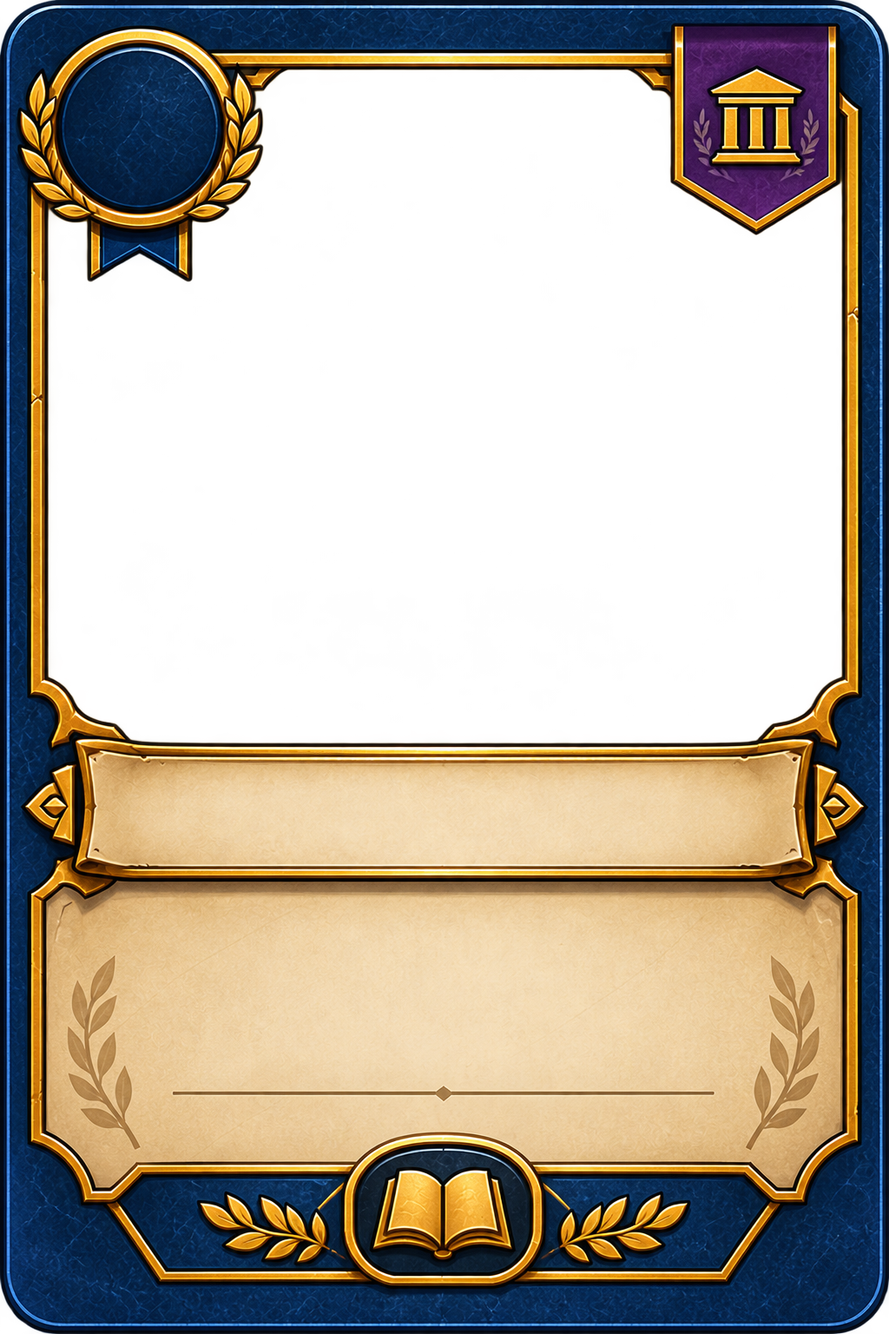
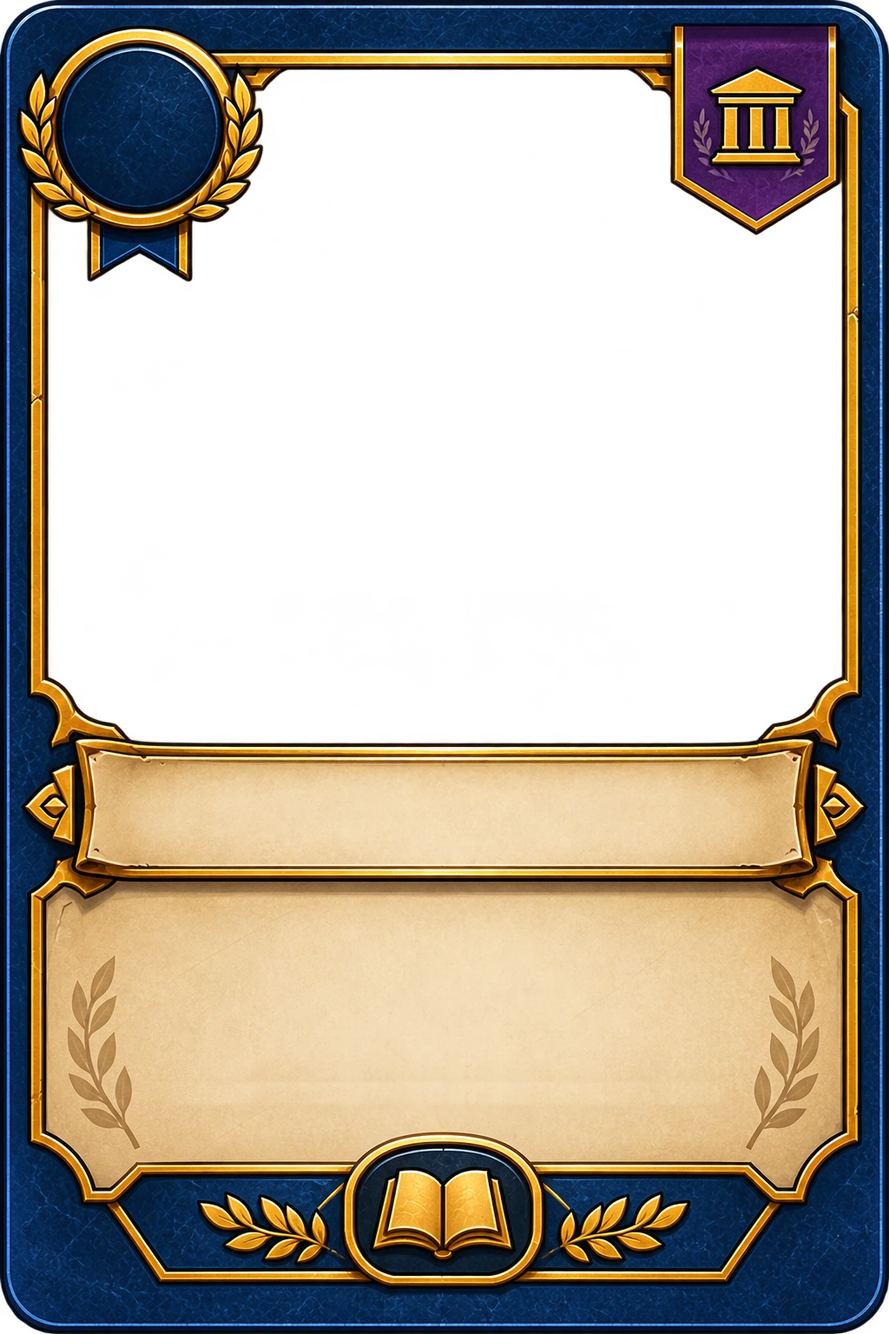
feat: aplicar mejoras del documento de cambios
- Título "Tesis · El juego de mesa investigador" y nuevo subtítulo de inicio.
- Misiones y personalización ocultas tras FEATURES (features.js) para este curso.
- Revisión Sistemática cuesta 2 monedas y Patente 2 monedas.
- Ventana de cada artículo con su explicación didáctica.
- Rangos renombrados (Graduado ... Catedrático) con insignias redibujadas.
- Sin aviso de mano vacía; botón final "Volver al menú".
- La última ronda pasa directamente al resultado, sin pantalla de carga.
- Los siete personajes en una sola fila y sin la línea del marco.

Claude-Session: https://claude.ai/code/session_01J97HrFpyeARFxQw65LrecW

diff --git a/src/main/resources/static/js/app.js b/src/main/resources/static/js/app.js
@@ -9,7 +9,7 @@ import {initAccountPanel, progressText} from './account-panel.js';
 import {homeCommunity} from './home-community.js';
 import {img, esc} from './dom.js';
 import {board} from './board.js';
-import {ideaCard, ideaCardContents, roleCard} from './cards.js';
+import {ideaCard, ideaCardContents, roleCard, articleDescription} from './cards.js';
 import {studies, articleChoices} from './players.js';
 import {dialog, closeDialog, phaseDialog, reconcileDialog, informationalDialogOpen} from './dialogs.js';
 import {endTurnWarning, preview, ideaUnavailableReason, highlightTargets, clearTargets} from './decisions.js';
@@ -22,7 +22,7 @@ let state = null, room = null, busy = false, selectedRole = null, pendingAction 
 let timer, screen = 'home', generation = 0;
 const app = document.getElementById('app');
 const connection = document.createElement('div');
-const homeMessage = 'Reúne a tu academia. Cada persona juega desde su dispositivo, con su mano privada y una mesa compartida.';
+const homeMessage = 'Reúne a tu grupo de investigación para jugar desde dispositivos separados en una sala privada.';
 const academyIntro = (community=false) => `${community?'':`<div class="academy-brand">${img('Logo/logo_tesis.webp','home-logo','Tesis')}<span>EL JUEGO DE LA INVESTIGACIÓN</span></div>`}<span class="eyebrow"><i aria-hidden="true"></i> La diferencia está en la ciencia</span>
     <h1>Construye tu<br><em>legado científico.</em></h1><p>${homeMessage}</p>
     <div class="home-features"><span><strong>3–5</strong> jugadores</span><span><strong>Una</strong> mesa compartida</span><span><strong>Tu</strong> mano privada</span></div>
@@ -216,7 +216,7 @@ function help() {
     </div></section>
     <section class="rules-section" aria-labelledby="rules-final"><h2 id="rules-final" tabindex="-1"><span>06</span> El final y la victoria</h2><p>Cuando alguien alcanza <strong>3 estudios publicados</strong>, continuáis los turnos pendientes de esa ronda. Al acabarla se compara el prestigio total y termina la partida.</p><div class="rules-example"><h3>Tres publicaciones activan el final; el prestigio decide</h3><p>Ana publica su tercer estudio y tiene 5 de prestigio. Bruno aún juega en esa ronda y termina con 7 de prestigio y 2 publicaciones. <strong>Gana Bruno.</strong></p></div><div class="rules-note"><strong>Desempate.</strong> Si varias personas terminan con el mismo prestigio máximo, gana quien tenga <strong>más monedas</strong>. Si también empatan en monedas, gana quien tenga <strong>más cartas en la mano</strong>. Solo si el empate continúa se comparte la victoria.</div><p>Los estudios en desarrollo no dan prestigio. Sí cuentan las mejoras del Estadístico y las Patentes publicadas; una Patente cuenta como una publicación para activar el final.</p></section>
     <section class="rules-section" aria-labelledby="rules-consulta"><h2 id="rules-consulta" tabindex="-1">Consulta rápida</h2><details class="rules-reference"><summary>Cartas de idea: costes, trabajo y prestigio</summary><div><p>El mazo es <strong>inagotable y con reposición</strong>: cada idea robada sigue las probabilidades de la tabla, también en el reparto inicial. Pueden repetirse cartas.</p><div class="rules-table-scroll" role="region" aria-label="Catálogo de ideas" tabindex="0"><table><caption>Valores y probabilidad de cada idea</caption><thead><tr><th scope="col">Idea</th><th scope="col">Monedas</th><th scope="col">Trabajo</th><th scope="col">Prestigio</th><th scope="col">Probabilidad</th></tr></thead><tbody>${[
-      ['Artículo Ecológico',2,1,1,'13%'],['Artículo Transversal',3,1,2,'13%'],['Casos y Controles',3,2,3,'13%'],['Cohortes',4,3,5,'13%'],['Revisión Sistemática',3,5,6,'13%'],['Ensayo Clínico Aleatorizado',5,4,7,'13%'],['Ensayo Comunitario',9,4,9,'13%'],['Patente',4,4,5,'9%']
+      ['Artículo Ecológico',2,1,1,'13%'],['Artículo Transversal',3,1,2,'13%'],['Casos y Controles',3,2,3,'13%'],['Cohortes',4,3,5,'13%'],['Revisión Sistemática',2,5,6,'13%'],['Ensayo Clínico Aleatorizado',5,4,7,'13%'],['Ensayo Comunitario',9,4,9,'13%'],['Patente',2,4,5,'9%']
     ].map(([name,...values])=>`<tr><th scope="row">${name}</th>${values.map(value=>`<td>${value}</td>`).join('')}</tr>`).join('')}</tbody></table></div><p><strong>Patente · Legendaria:</strong> una vez publicada, genera <strong>2 monedas al inicio de cada turno tuyo</strong>. Varias Patentes acumulan sus ingresos. Un turno vetado no genera ingresos.</p></div></details><details class="rules-reference"><summary>Jugar desde varios dispositivos y volver a la sala</summary><div><p>Comparte el código para que cada persona entre desde su navegador. Al recargar recuperas tu identidad en la misma pestaña. Mantén esa pestaña para volver a tu partida: abrir otra no recupera tu identidad por nombre.</p><p>Las salas caducan tras 24 horas sin actividad válida y desaparecen si se reinicia el servidor.</p></div></details></section>
     <div class="rules-guide-footer"><button type="button" class="plain-button" data-command="rules-section" data-section="preparacion">Volver a la preparación ↑</button><button type="button" class="gold-button" data-command="close">Listo para jugar</button></div>
     </article>`, {wide:true, kind:'info', subtitle:'Una guía para empezar y consultar durante la partida.'});
@@ -250,6 +250,7 @@ function inspect(c, study = null, player = null) {
   const canWork = study && player === state.yo && state.acciones.find(a => a.id === 'TRABAJAR')?.disponible
     && state.acciones.find(a => a.id === 'TRABAJAR')?.opciones.some(o => o.indice === study.indice);
   dialog(c.nombre, `<div class="card-detail">${ideaCard(c,{command:'noop'})}<div><span class="eyebrow">${study ? study.publicado ? 'ARTÍCULO PUBLICADO' : 'ESTUDIO EN DESARROLLO' : 'CARTA DE IDEA'}</span><h2>${esc(c.nombre)}</h2>
+    ${articleDescription(c.nombre) ? `<p class="article-description">${esc(articleDescription(c.nombre))}</p>` : ''}
     <dl><div><dt>Coste de inicio</dt><dd>${c.coste} monedas</dd></div><div><dt>Trabajo requerido</dt><dd>${c.trabajo} puntos</dd></div><div><dt>Prestigio</dt><dd>${c.prestigio}${study?.prestigioExtra ? ` + ${study.prestigioExtra}` : ''}</dd></div></dl>
     ${c.ingresoPorTurno ? `<p>Legendaria. Mientras esté publicada, recibes ${c.ingresoPorTurno} monedas al iniciar tu turno.</p>` : ''}
     ${study ? `<p>Progreso: ${study.trabajo} / ${c.trabajo}</p>` : ''}

diff --git a/src/main/resources/static/js/account-panel.js b/src/main/resources/static/js/account-panel.js
@@ -1,4 +1,5 @@
 import {accounts} from './auth.js';
+import {FEATURES} from './features.js';
 import {esc} from './dom.js';
 import {RANKS, progression, badge} from './profile-ranks.js';
 import {academyTabs,mountCommunity} from './community-panel.js';
@@ -31,7 +32,7 @@ export function profileView(profile) {
   const p=progression(profile),played=Math.max(0,Number(profile.partidasTerminadas)||0),wins=Math.max(0,Number(profile.victorias)||0);
   return `<div class="profile-shell tier-${p.rank.id}">${closeButton()}
     <h2 id="account-title" class="sr-only">Mi perfil</h2>
-    <div class="profile-main"><nav class="customization-view-tabs" aria-label="Vista del perfil"><span aria-current="page">Resumen</span><button type="button" data-customize>✒ Personalización</button></nav><section class="profile-identity" aria-label="Tu rango actual">${frameCorners()}<span class="researcher-card-label">CARNET DE INVESTIGADOR</span><div class="profile-emblem">${emblemLaurels()}${badge(p.rank.id)}<span class="emblem-level">NIVEL <b>${esc(p.level)}</b></span></div><span class="rank-kicker">${esc(p.rank.title)}</span><h3>${esc(profile.nombre)}</h3><span class="identity-divider" aria-hidden="true">◇</span><span class="rank-name">${esc(p.rank.name)}</span><p class="rank-description">${esc(p.rank.description)}</p><span class="researcher-card-signature">TESIS · MIEMBRO DE LA ACADEMIA</span></section>
+    <div class="profile-main">${FEATURES.personalizacion?'<nav class="customization-view-tabs" aria-label="Vista del perfil"><span aria-current="page">Resumen</span><button type="button" data-customize>✒ Personalización</button></nav>':''}<section class="profile-identity" aria-label="Tu rango actual">${frameCorners()}<span class="researcher-card-label">CARNET DE INVESTIGADOR</span><div class="profile-emblem">${emblemLaurels()}${badge(p.rank.id)}<span class="emblem-level">NIVEL <b>${esc(p.level)}</b></span></div><span class="rank-kicker">${esc(p.rank.title)}</span><h3>${esc(profile.nombre)}</h3><span class="identity-divider" aria-hidden="true">◇</span><span class="rank-name">${esc(p.rank.name)}</span><p class="rank-description">${esc(p.rank.description)}</p><span class="researcher-card-signature">TESIS · MIEMBRO DE LA ACADEMIA</span></section>
     <section class="profile-record" aria-label="Progresión y estadísticas">${frameCorners()}<div class="profile-progress"><div class="profile-record-heading"><div class="profile-section-label">${academicSprig()}<span>PROGRESIÓN DE NIVEL</span></div></div><div class="xp-headline"><strong>${esc(p.inLevel)} <small>/ 500 XP</small></strong><div class="xp-next"><span>NIVEL ${esc(p.level)} → ${esc(p.level+1)}</span><span>${esc(p.toNextLevel)} XP para el siguiente nivel</span></div></div><div class="xp-track" role="progressbar" aria-label="Progreso al siguiente nivel" aria-valuemin="0" aria-valuemax="500" aria-valuenow="${p.inLevel}" aria-valuetext="${p.inLevel} de 500 XP"><span style="width:${p.percent}%"></span></div><p class="xp-total">${esc(p.xp)} XP acumulada <span>·</span> Tu legado sigue creciendo</p></div>
     <div class="profile-stat-grid"><div>${frameCorners()}<span class="stat-glyph" aria-hidden="true">▤</span><strong>${esc(played)}</strong><span>Partidas terminadas</span></div><div>${frameCorners()}<span class="stat-glyph" aria-hidden="true">♛</span><strong>${esc(wins)}</strong><span>Victorias</span></div><div>${frameCorners()}<span class="stat-glyph" aria-hidden="true">✦</span><strong>${played?Math.round(wins/played*100):0}<small>%</small></strong><span>Porcentaje de victorias</span></div></div>
     <div class="next-rank-card">${frameCorners()}${p.nextRank?`${badge(p.nextRank.id,{small:true})}<div><span>EL SIGUIENTE HORIZONTE</span><strong>${esc(p.nextRank.name)}</strong><p>Nivel ${p.nextRank.start} · ${Math.max(0,(p.nextRank.start-1)*500-p.xp)} XP por recorrer</p></div>`:`${badge('eterno',{small:true})}<div><span>EL MAYOR HONOR DE LA ACADEMIA</span><strong>Un legado eterno</strong><p>Has alcanzado el último rango. Tus niveles continúan.</p></div>`}</div></section></div>
@@ -51,7 +52,7 @@ export function initAccountPanel() {
   const panel=document.getElementById('account-panel'),opener=document.getElementById('account-open');
   let mode='login',working=false,loginIdentityPending=false,lastView='',restoring=true,connectionFailed=false,returnFocus=null,returnScroll=0,operation=0;
   let academyPage='profile',community=null,lastIdentity=accounts.identity();
-  const routes={'#perfil':'profile','#amigos':'friends','#ranking':'ranking','#misiones':'missions','#personalizacion':'customization'};
+  const routes={'#perfil':'profile','#amigos':'friends','#ranking':'ranking',...(FEATURES.misiones?{'#misiones':'missions'}:{}),...(FEATURES.personalizacion?{'#personalizacion':'customization'}:{})};
   const hashes=Object.fromEntries(Object.entries(routes).map(([hash,page])=>[page,hash]));
   const labels={profile:'Mi perfil',friends:'Amigos',ranking:'Ranking global',missions:'Misiones',customization:'Personalización'};
   const app=document.getElementById('app');
@@ -59,7 +60,7 @@ export function initAccountPanel() {
     operation++;working=false;panel.removeAttribute('aria-busy');
     community?.destroy();community=null;lastView='';
     panel.hidden=true;app.inert=false;app.hidden=false;document.body.classList.remove('account-page-active');
-    document.title='Tesis · La mesa del conocimiento';
+    document.title='Tesis · El juego de mesa investigador';
     window.scrollTo(0,returnScroll);
     (returnFocus?.isConnected&&returnFocus!==document.body?returnFocus:opener).focus({preventScroll:true});
     document.dispatchEvent(new Event('tesis:account-return'));

diff --git a/src/main/resources/static/js/profile-ranks.js b/src/main/resources/static/js/profile-ranks.js
@@ -1,12 +1,12 @@
 // Distinciones visuales del perfil. No intervienen en las reglas ni conceden XP.
 export const RANKS = Object.freeze([
-  {id:'madera', name:'Madera', start:1, title:'Aprendiz de la academia', color:'#bf9264', glow:'#8e6134', description:'Toda gran idea empieza con una primera página.'},
-  {id:'bronce', name:'Bronce', start:5, title:'Investigador emergente', color:'#dc9b65', glow:'#b86335', description:'Tu curiosidad comienza a dejar huella.'},
-  {id:'plata', name:'Plata', start:10, title:'Erudito de la academia', color:'#d5e3f2', glow:'#89b0ce', description:'El conocimiento encuentra una voz propia.'},
-  {id:'oro', name:'Oro', start:20, title:'Maestro del conocimiento', color:'#f4ce73', glow:'#dba339', description:'Tus ideas brillan en los salones de la academia.'},
-  {id:'platino', name:'Platino', start:35, title:'Eminencia científica', color:'#a9eee5', glow:'#56cabe', description:'Una trayectoria que inspira nuevas generaciones.'},
-  {id:'diamante', name:'Diamante', start:50, title:'Guardián del saber', color:'#a9dfff', glow:'#609ffc', description:'El tiempo convierte tu legado en algo excepcional.'},
-  {id:'eterno', name:'Eterno', start:75, title:'Leyenda de la academia', color:'#f3cd78', glow:'#b377ff', description:'Un legado escrito en oro. Un conocimiento sin límites.'},
+  {id:'madera', file:'Graduado', name:'Graduado', start:1, title:'Aprendiz de la academia', color:'#bf9264', glow:'#8e6134', description:'Toda gran idea empieza con una primera página.'},
+  {id:'bronce', file:'Master', name:'Máster', start:5, title:'Investigador emergente', color:'#dc9b65', glow:'#b86335', description:'Tu curiosidad comienza a dejar huella.'},
+  {id:'plata', file:'Predoctoral', name:'Predoctoral', start:10, title:'Erudito de la academia', color:'#d5e3f2', glow:'#89b0ce', description:'El conocimiento encuentra una voz propia.'},
+  {id:'oro', file:'Postdoctoral', name:'Postdoctoral', start:20, title:'Maestro del conocimiento', color:'#f4ce73', glow:'#dba339', description:'Tus ideas brillan en los salones de la academia.'},
+  {id:'platino', file:'Ayudante-doctor', name:'Ayudante doctor', start:35, title:'Eminencia científica', color:'#a9eee5', glow:'#56cabe', description:'Una trayectoria que inspira nuevas generaciones.'},
+  {id:'diamante', file:'Investigador-principal', name:'Investigador principal', start:50, title:'Guardián del saber', color:'#a9dfff', glow:'#609ffc', description:'El tiempo convierte tu legado en algo excepcional.'},
+  {id:'eterno', file:'Catedratico', name:'Catedrático', start:75, title:'Leyenda de la academia', color:'#f3cd78', glow:'#b377ff', description:'Un legado escrito en oro. Un conocimiento sin límites.'},
 ].map(rank=>Object.freeze(rank)));
 
 export function progression(profile) {
@@ -26,5 +26,5 @@ export function progression(profile) {
 // El catálogo limita las rutas de imágenes y nunca usa el id recibido como ruta.
 export function badge(rankId,{small=false}={}) {
   const rank=RANKS.find(rank=>rank.id===rankId)||RANKS[0];
-  return `<span class="profile-badge tier-${rank.id}${small?' profile-badge-small':''}" role="img" aria-label="Distinción ${rank.name}"><img src="/assets/Tesis-assets/Rango-Niveles/${rank.name}.png" alt="" width="1254" height="1254" decoding="async"></span>`;
+  return `<span class="profile-badge tier-${rank.id}${small?' profile-badge-small':''}" role="img" aria-label="Distinción ${rank.name}"><img src="/assets/Tesis-assets/Rango-Niveles/${rank.file}.png" alt="" width="1254" height="1254" decoding="async"></span>`;
 }

diff --git a/src/main/resources/static/js/community-panel.js b/src/main/resources/static/js/community-panel.js
@@ -1,4 +1,5 @@
 import {esc} from './dom.js';
+import {FEATURES} from './features.js';
 import {badge,progression} from './profile-ranks.js';
 import {createPublicProfile} from './public-profile.js';
 import {rankingView} from './ranking-panel.js';
@@ -15,7 +16,7 @@ const academyTabIcons={
   ranking:'<path d="M8 3h8v8a4 4 0 0 1-8 0zM10 16h4v5h-4zM7 21h10v2H7z"/><path d="M8 5H3v3a5 5 0 0 0 5 5m8-8h5v3a5 5 0 0 1-5 5" fill="none" stroke="currentColor" stroke-width="2"/>',
   missions:'<path d="M2 4q5-2 10 1 5-3 10-1v16q-5-2-10 1-5-3-10-1zM12 5v16M5 8h4M5 11h4M5 14h4M15 8h4M15 11h4M15 14h4" fill="none" stroke="currentColor" stroke-width="1.5"/>'
 };
-export const academyTabs=active=>`<nav class="community-tabs" aria-label="Secciones de tu academia">${[['profile','Mi perfil'],['friends','Amigos'],['ranking','Ranking global'],['missions','Misiones']].map(([id,title])=>`<button type="button" data-academy-page="${id}" ${active===id?'aria-current="page"':''}><svg class="academy-tab-icon" viewBox="0 0 24 24" aria-hidden="true" focusable="false">${academyTabIcons[id]}</svg><span>${title}</span></button>`).join('')}</nav>`;
+export const academyTabs=active=>`<nav class="community-tabs" aria-label="Secciones de tu academia">${[['profile','Mi perfil'],['friends','Amigos'],['ranking','Ranking global'],...(FEATURES.misiones?[['missions','Misiones']]:[])].map(([id,title])=>`<button type="button" data-academy-page="${id}" ${active===id?'aria-current="page"':''}><svg class="academy-tab-icon" viewBox="0 0 24 24" aria-hidden="true" focusable="false">${academyTabIcons[id]}</svg><span>${title}</span></button>`).join('')}</nav>`;
 const icons={friends:academyTabIcons.friends,received:'<path d="M2 5h20v14H2z"/><path d="m2 5 10 8L22 5" fill="none" stroke="#132331" stroke-width="1.8"/>',sent:'<path d="m2 10 20-8-5 20-5-8z"/><path d="m12 14 10-12" fill="none" stroke="#132331" stroke-width="1.5"/>',link:'<path d="m9 15 6-6M8 11l-2 2a4 4 0 0 0 6 6l3-3M16 13l2-2a4 4 0 0 0-6-6L9 8" fill="none" stroke="currentColor" stroke-width="2.2"/>',add:'<circle cx="9" cy="7" r="4"/><path d="M1 22v-5a8 8 0 0 1 16 0v5M20 3v8M16 7h8" stroke="currentColor" stroke-width="2"/>',copy:'<path d="M8 3h12v16H8zM4 7v16h12" fill="none" stroke="currentColor" stroke-width="1.8"/>',refresh:'<path d="M21 9a9 9 0 0 0-16-3L2 9m0-6v6h6M3 15a9 9 0 0 0 16 3l3-3m0 6v-6h-6" fill="none" stroke="currentColor" stroke-width="1.8"/>',search:'<circle cx="10" cy="10" r="7" fill="none" stroke="currentColor" stroke-width="1.8"/><path d="m15 15 7 7" stroke="currentColor" stroke-width="1.8"/>',share:'<circle cx="5" cy="12" r="3"/><circle cx="19" cy="5" r="3"/><circle cx="19" cy="19" r="3"/><path d="m5 12 14-7M5 12l14 7" stroke="currentColor" stroke-width="2"/>'};
 const icon=id=>`<svg class="friend-icon" viewBox="0 0 24 24" aria-hidden="true" focusable="false">${icons[id]||icons.friends}</svg>`;
 const corners=()=>'<span class="friend-frame-corners" aria-hidden="true"><i></i><i></i><i></i><i></i></span>';

diff --git a/src/main/resources/static/js/cards.js b/src/main/resources/static/js/cards.js
@@ -1,5 +1,18 @@
 import {img, esc} from './dom.js';
 
+// Texto didáctico que acompaña a cada tipo de artículo en su ventana de detalle.
+const ARTICLE_DESCRIPTIONS = {
+  'Artículo Ecológico': 'Son estudios observacionales que utilizan datos agregados para estudiar una población. Al relacionar exclusivamente variables a nivel grupal, sus conclusiones quedan expuestas a la falacia ecológica.',
+  'Artículo Transversal': 'Son estudios observacionales que recopilan datos de una muestra en un único punto temporal. Pueden establecer prevalencias y correlaciones entre variables, pero son incapaces de establecer relaciones de causalidad debido a que sufren de ambigüedad temporal.',
+  'Casos y Controles': 'Son estudios observacionales retrospectivos que evalúan las exposiciones pasadas de una muestra que presenta una determinada enfermedad o condición (casos) frente a un grupo que ejerce de control al no presentarla.',
+  'Cohortes': 'Son estudios observacionales que consisten en seguir a una muestra a lo largo del tiempo, dividiéndola en grupos en función de una determinada exposición para observar la aparición o modificación de una variable.',
+  'Revisión Sistemática': 'Son estudios de revisión donde la unidad de análisis son estudios primarios, a partir de los cuales se pretende contestar a una pregunta de investigación claramente formulada mediante un proceso sistemático, explícito y reproducible.',
+  'Ensayo Clínico Aleatorizado': 'Son estudios experimentales que se caracterizan porque la asignación de los sujetos a los grupos de estudio (experimental y control) se realiza mediante aleatorización. Se consideran el Gold Standard de la investigación primaria para establecer relaciones de causalidad.',
+  'Ensayo Comunitario': 'Son estudios experimentales donde la unidad de asignación de la intervención no es el individuo, sino una comunidad completa. El investigador selecciona comunidades enteras y asigna al azar cuál recibe la intervención y cuál sirve de control, recogiendo datos agregados.',
+  'Patente': 'Documento legal que describe una invención original. No es un artículo científico, sino un título de propiedad industrial que concede el derecho exclusivo de explotación comercial temporal a cambio de hacer públicos sus detalles técnicos.'
+};
+export const articleDescription = name => ARTICLE_DESCRIPTIONS[name] || '';
+
 export function ideaCard(c, {command = 'inspect', disabled = false, selected = false} = {}) {
   return `<button class="game-card idea-card ${selected ? 'selected' : ''}" data-command="${command}" data-index="${c.indice}" ${disabled ? 'disabled' : ''}
     aria-label="${esc(c.nombre)}. Coste ${c.coste}, trabajo ${c.trabajo}, prestigio ${c.prestigio}" data-tip="${esc(c.nombre)} · ${c.coste} monedas · ${c.trabajo} trabajo · ${c.prestigio} prestigio">

diff --git a/src/main/resources/static/js/dialogs.js b/src/main/resources/static/js/dialogs.js
@@ -35,7 +35,7 @@ export function phaseDialog(state) {
   } else if (state.fase === 'FIN_RONDA') {
     dialog(`La ronda ${state.ronda} ha terminado`, `<div class="round-summary"><span class="round-summary-kicker">BALANCE DE LA ACADEMIA</span>${ranking(state)}<p>${state.ultimaRonda ? 'Se ha alcanzado la tercera publicación. Es hora de reconocer el legado de cada academia.' : 'Los personajes regresan al mazo. Una nueva ronda trae nuevas posibilidades.'}</p><div class="round-transition" role="status"><span>${state.ultimaRonda ? 'Preparando el resultado final' : 'Preparando la siguiente ronda'}</span><span class="round-transition-track" aria-hidden="true"><span></span></span></div></div>`, {locked:true,kind:'round'});
   } else if (state.fase === 'FIN_PARTIDA') {
-    dialog('TESIS COMPLETADA', `<div class="final-result">${img('recursos/prestigio.webp','victory-medal')}<h2>${state.ganadores.map(esc).join(' · ')}</h2><p>${victoryReason(state)}</p>${state.jugadores.filter(p=>state.ganadores.includes(p.nombre)).map(p=>`<div class="victory-publications" aria-label="Publicaciones de ${esc(p.nombre)}">${p.estudios.filter(e=>e.publicado).map(e=>img(e.carta.arte,'',e.carta.nombre)).join('')}</div>`).join('')}${ranking(state)}<div class="dialog-buttons"><button class="gold-button" data-command="home">Nueva partida</button><button class="plain-button" data-command="close">Explorar la mesa</button></div></div>`, {locked:false, subtitle:`Partida completada en ${state.ronda} rondas`});
+    dialog('TESIS COMPLETADA', `<div class="final-result">${img('recursos/prestigio.webp','victory-medal')}<h2>${state.ganadores.map(esc).join(' · ')}</h2><p>${victoryReason(state)}</p>${state.jugadores.filter(p=>state.ganadores.includes(p.nombre)).map(p=>`<div class="victory-publications" aria-label="Publicaciones de ${esc(p.nombre)}">${p.estudios.filter(e=>e.publicado).map(e=>img(e.carta.arte,'',e.carta.nombre)).join('')}</div>`).join('')}${ranking(state)}<div class="dialog-buttons"><button class="gold-button" data-command="home">Volver al menú</button><button class="plain-button" data-command="close">Explorar la mesa</button></div></div>`, {locked:false, subtitle:`Partida completada en ${state.ronda} rondas`});
   } else closeDialog();
 }
 // El servidor decide quién gana; aquí solo se explica el criterio que resolvió el resultado.

diff --git a/src/main/resources/static/js/home-community.js b/src/main/resources/static/js/home-community.js
@@ -5,13 +5,15 @@ const icons = {
   profile: '<circle cx="12" cy="8" r="4"/><path d="M4 21v-2a8 8 0 0 1 16 0v2"/>',
 };
 
+import {FEATURES} from './features.js';
+
 /** Static entry points. Account navigation owns authentication and destination state. */
 export function homeCommunity() {
   const entries = [
     ['perfil', 'profile', 'Mi perfil', 'Identidad y progreso'],
     ['amigos', 'friends', 'Amigos', 'Reúne a tu academia'],
     ['ranking', 'ranking', 'Ranking global', 'Tu puesto en la academia'],
-    ['misiones', 'missions', 'Misiones', 'Retos diarios y semanales'],
+    ...(FEATURES.misiones ? [['misiones', 'missions', 'Misiones', 'Retos diarios y semanales']] : []),
   ];
   return `<section class="home-community" aria-labelledby="home-community-title">
     <div class="home-community-heading"><h2 id="home-community-title">Tu academia</h2><span>CRECE. COMPARTE. COMPITE.</span></div>

diff --git a/src/main/resources/static/js/board.js b/src/main/resources/static/js/board.js
@@ -44,7 +44,7 @@ export function board(state) {
   document.getElementById('studies').classList.toggle('no-studies', !me.estudios.length);
   document.getElementById('hand').style.setProperty('--hand-count', Math.max(1,state.mano.length));
   const hand = document.getElementById('hand');
-  const handHtml = state.mano.map(c => ideaCard(c)).join('') || '<p class="empty-hand">Sin ideas en la mano<br><small>Consulta las acciones disponibles.</small></p>';
+  const handHtml = state.mano.map(c => ideaCard(c)).join('') ;
   // Keep the focused/hovered card alive when a public update leaves our hand unchanged.
   if (renderedHands.get(hand) !== handHtml) {
     hand.innerHTML = handHtml;

diff --git a/src/main/resources/static/css/premium.css b/src/main/resources/static/css/premium.css
@@ -262,3 +262,6 @@ dialog .study-row.published{border-color:#ac855a}
  .board .utility>button{transition:none}
  .board .table-study.game-card{transition:none}
 }
+.card-detail .article-description{font:13px/1.7 var(--ui);color:#2f4552;border-left:2px solid #b8924f;padding:2px 0 2px 12px;margin:10px 0 14px;text-align:left}
+/* Los siete personajes caben en una sola fila; las cartas se encogen lo necesario. */
+@media(min-width:801px){.role-selection{display:grid;grid-auto-flow:column;grid-auto-columns:minmax(0,1fr);max-width:none;gap:12px;padding-bottom:26px}.role-selection .game-card{width:100%;max-width:216px;justify-self:center}}

diff --git a/src/main/resources/static/index.html b/src/main/resources/static/index.html
@@ -4,7 +4,7 @@
   <meta charset="utf-8">
   <meta name="viewport" content="width=device-width, initial-scale=1">
   <meta name="theme-color" content="#09151c">
-  <title>Tesis · La mesa del conocimiento</title>
+  <title>Tesis · El juego de mesa investigador</title>
   <link rel="icon" href="/assets/Tesis-assets/recursos/prestigio.webp">
   <link rel="preload" as="image" href="/assets/Tesis-assets/visual-v2/academy-night.webp">
   <link rel="stylesheet" href="/css/game.css">

diff --git a/src/main/resources/static/js/features.js b/src/main/resources/static/js/features.js
@@ -1,0 +1,6 @@
+// Funciones aplazadas para cursos posteriores. El backend y los módulos se conservan;
+// basta con activar la bandera para recuperar la sección correspondiente.
+export const FEATURES = Object.freeze({
+  misiones: false,
+  personalizacion: false,
+});

diff --git a/src/main/java/es/tesis/web/SalaJuego.java b/src/main/java/es/tesis/web/SalaJuego.java
@@ -163,7 +163,13 @@ public final class SalaJuego {
     }
 
     private void programarFinRonda(Jugador jugador) {
-        if (juego.estado(jugador).fase().equals("FIN_RONDA")) {
+        var estado = juego.estado(jugador);
+        if (estado.fase().equals("FIN_RONDA") && estado.ultimaRonda()) {
+            // Tras la última ronda no hay pantalla de transición: se muestra el resultado directamente.
+            finRondaHasta = 0;
+            juego.avanzarRondaAutomatica();
+            revision++;
+        } else if (estado.fase().equals("FIN_RONDA")) {
             if (finRondaHasta == 0) finRondaHasta = reloj.millis() + PAUSA_FIN_RONDA_MS;
         } else finRondaHasta = 0;
     }
